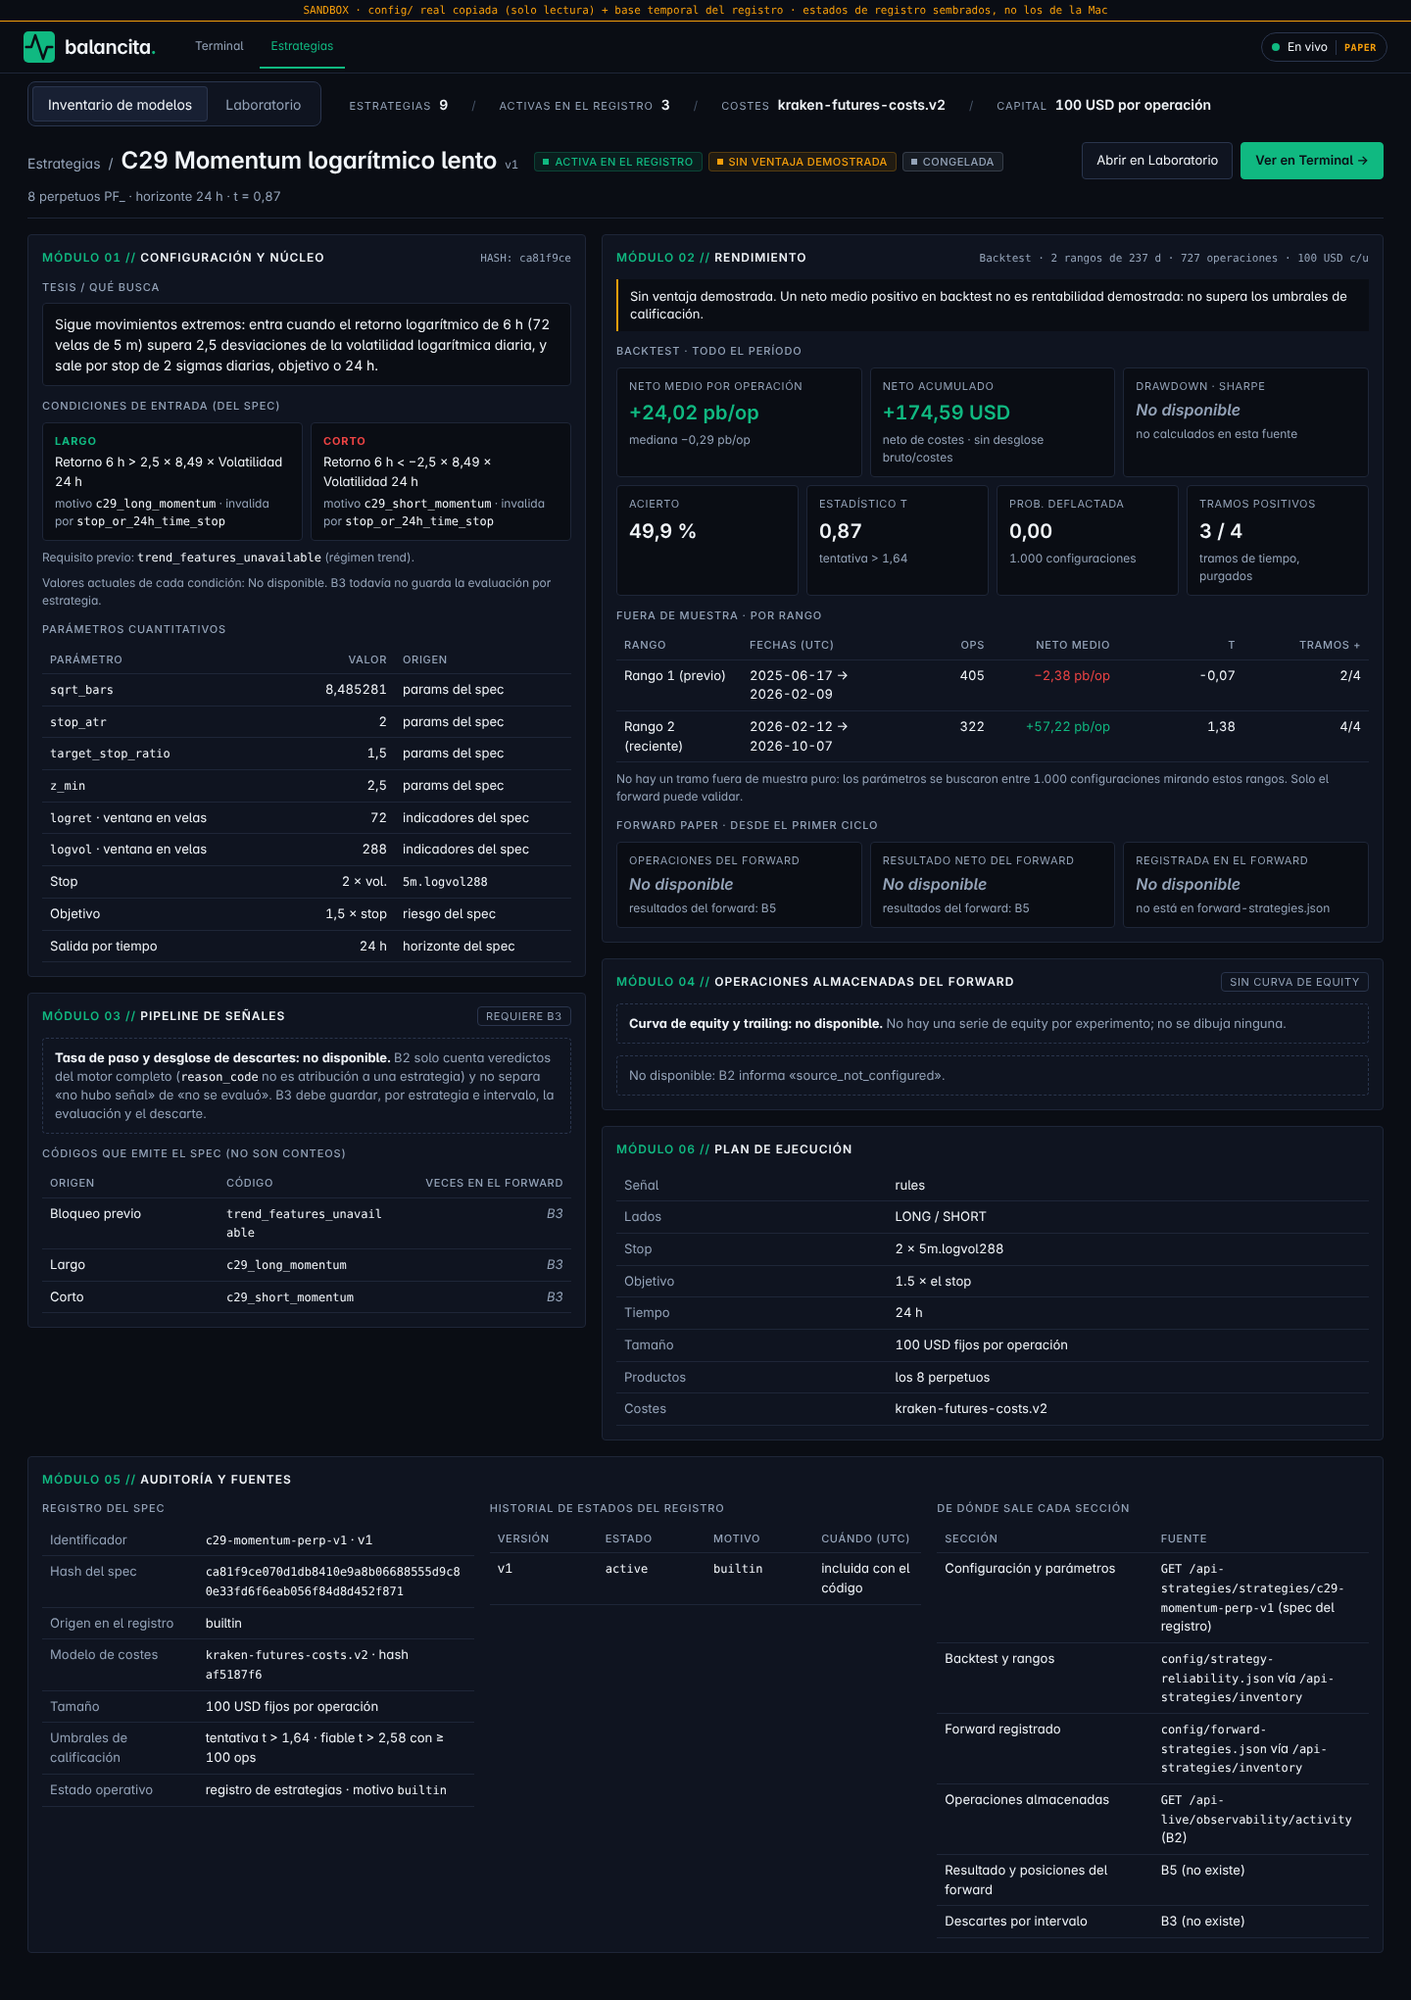
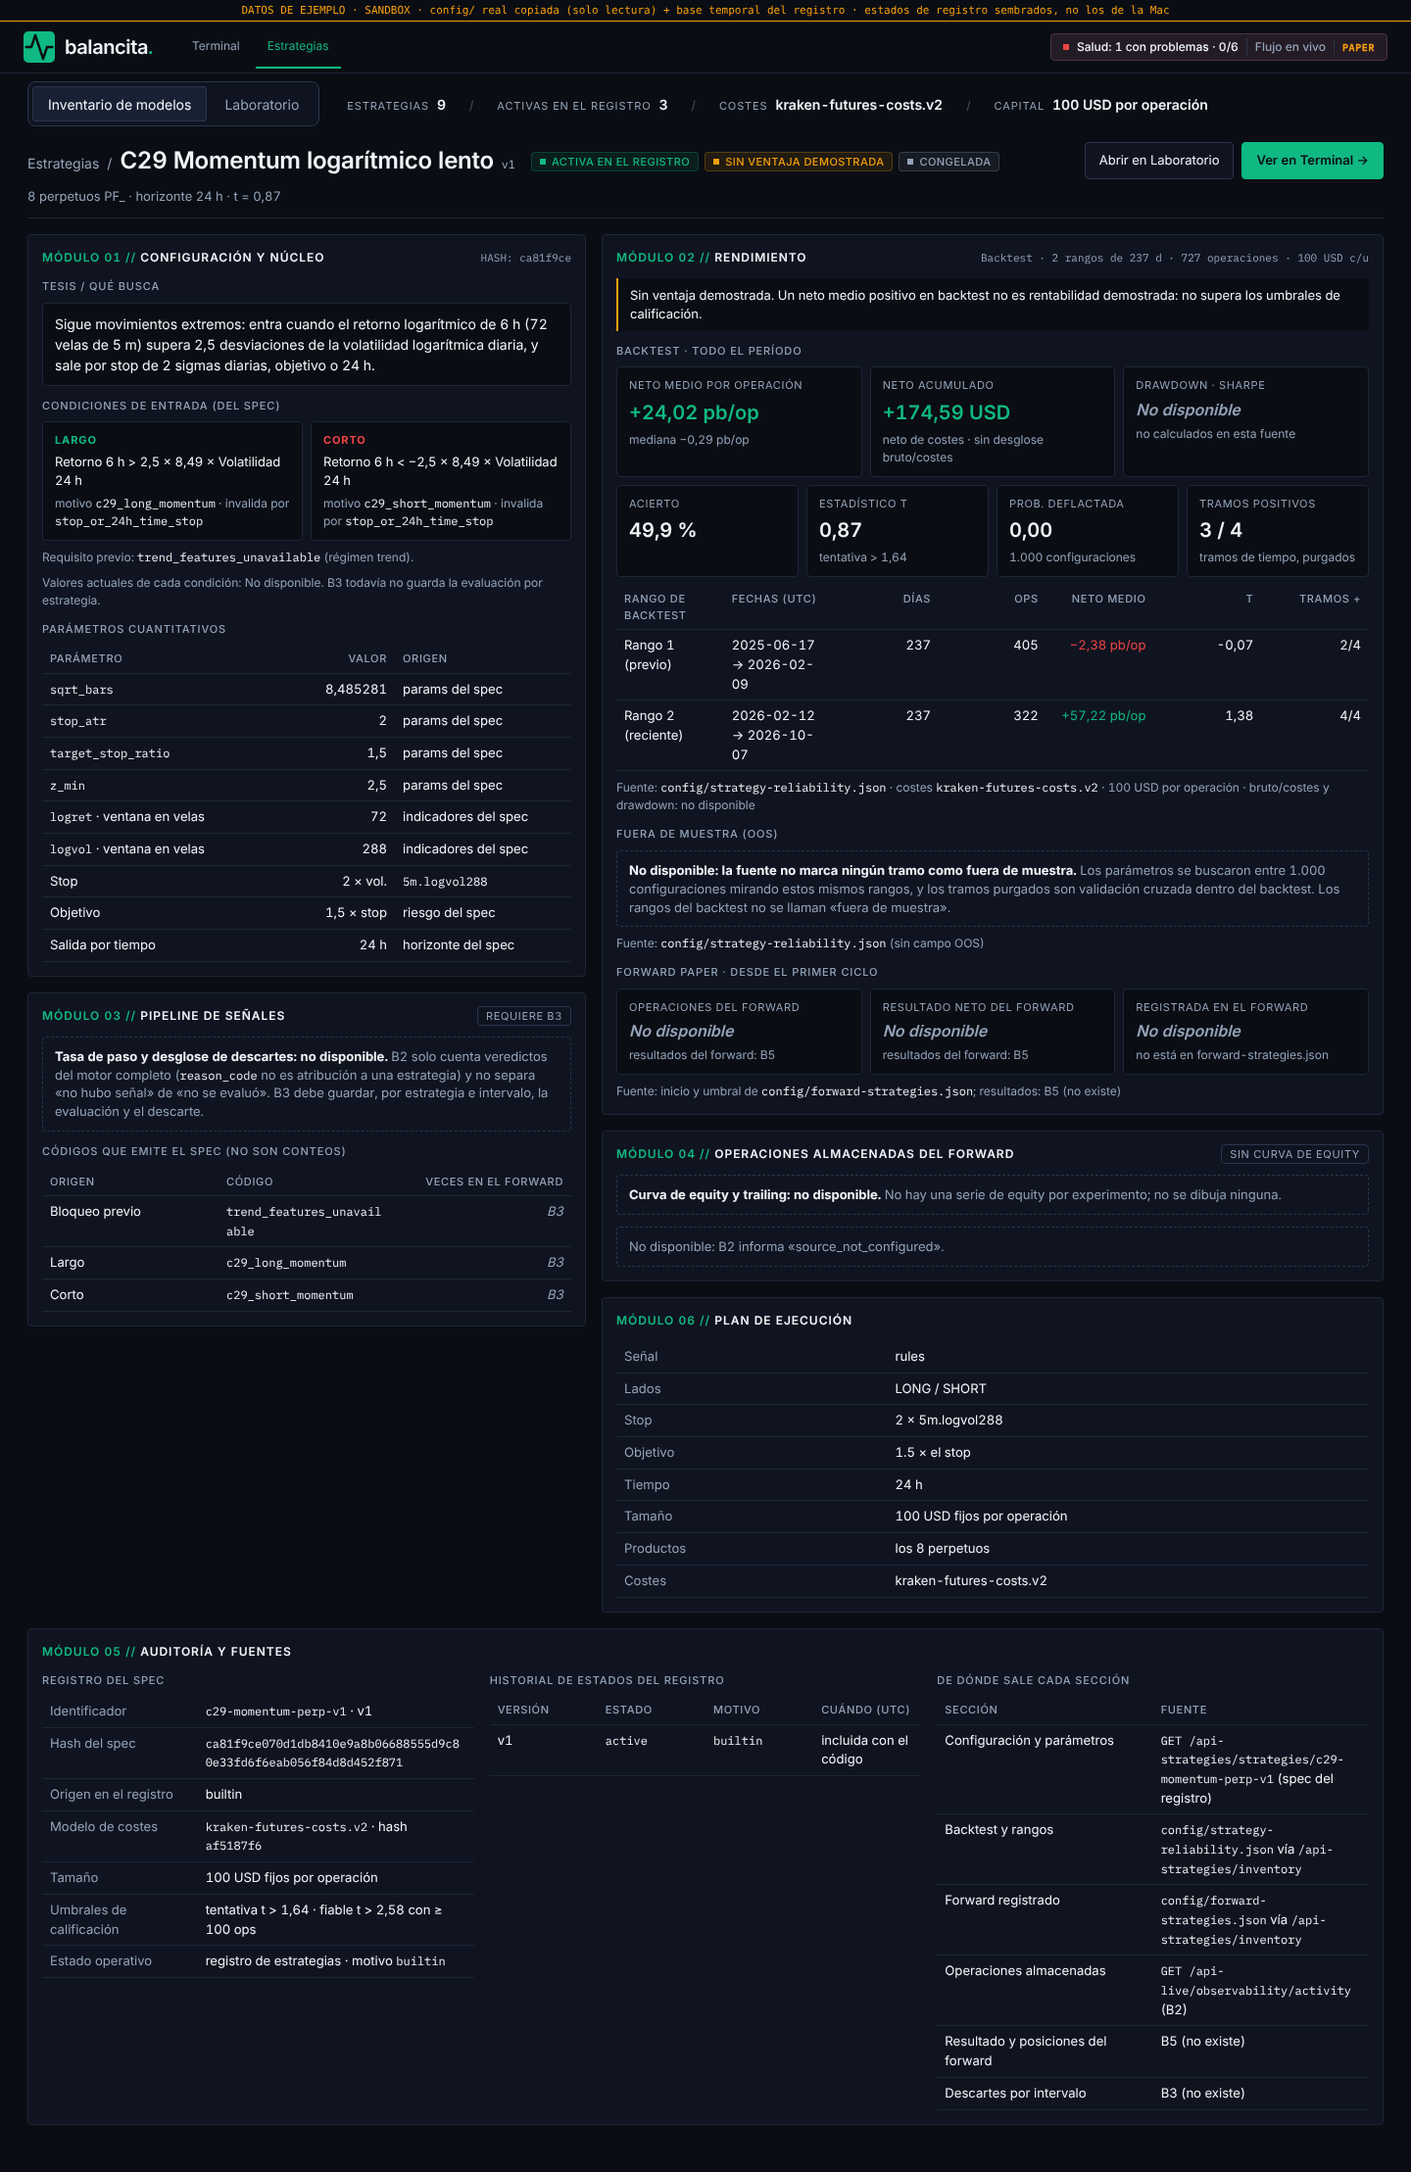
Detalle C29: backtest, fuera de muestra y forward separados con fuente, 237 días reales, pruebas de navegación y capturas

diff --git a/src/features/strategy-lab/presentation/StrategyDetailView.tsx b/src/features/strategy-lab/presentation/StrategyDetailView.tsx
@@ -128,6 +128,11 @@ function Sub({ title, children }: { title: string; children?: ReactNode }) {
   )
 }
 
+/** Where the figures of a section come from; sections never share a source. */
+function Source({ children }: { children: ReactNode }) {
+  return <p className="detail__source">Fuente: {children}</p>
+}
+
 function Unavailable({ children }: { children: ReactNode }) {
   return <p className="detail__unavailable">{children}</p>
 }
@@ -581,10 +586,15 @@ function PerformanceModule({
   const ranges = Object.entries(bt?.ranges ?? {})
   const periodRanges = inventory.period?.ranges ?? {}
   const periodNames = Object.keys(periodRanges)
-  const firstRange = Object.values(periodRanges)[0]
-  const days = firstRange
-    ? spanDays(firstRange.first_bucket_ms, firstRange.last_bucket_ms)
-    : null
+  const rangeDays = Object.values(periodRanges).map((span) =>
+    spanDays(span.first_bucket_ms, span.last_bucket_ms),
+  )
+  // Real length of the ranges, from the first/last bucket of the data (not
+  // the «240 days» of the source label).
+  const days =
+    rangeDays.length > 0 && rangeDays.every((d) => d === rangeDays[0])
+      ? rangeDays[0]
+      : null
   const t = inventory.thresholds
   const trials = bt?.selection_trials ?? null
   const fwd = row.forward
@@ -676,6 +686,63 @@ function PerformanceModule({
                 note="tramos de tiempo, purgados"
               />
             </dl>
+            {ranges.length > 0 && (
+              <table className="detail__table" data-testid="range-table">
+                <thead>
+                  <tr>
+                    <th>Rango de backtest</th>
+                    <th>Fechas (UTC)</th>
+                    <th className="is-num">Días</th>
+                    <th className="is-num">Ops</th>
+                    <th className="is-num">Neto medio</th>
+                    <th className="is-num">t</th>
+                    <th className="is-num">Tramos +</th>
+                  </tr>
+                </thead>
+                <tbody>
+                  {ranges.map(([name, range]) => {
+                    const span = periodRanges[name]
+                    return (
+                      <tr key={name}>
+                        <td>{rangeName(name)}</td>
+                        <td>
+                          {span
+                            ? `${utcDay(span.first_bucket_ms)} → ${utcDay(span.last_bucket_ms)}`
+                            : NA}
+                        </td>
+                        <td className="is-num">
+                          {span
+                            ? spanDays(
+                                span.first_bucket_ms,
+                                span.last_bucket_ms,
+                              )
+                            : NA}
+                        </td>
+                        <td className="is-num">{count(range.trades)}</td>
+                        <td
+                          className={`is-num is-${tone(range.mean_net_bp) ?? 'missing'}`}
+                        >
+                          {netBpPerOp(range.mean_net_bp) ?? NA}
+                        </td>
+                        <td className="is-num">
+                          {range.t_stat == null ? NA : amount(range.t_stat)}
+                        </td>
+                        <td className="is-num">
+                          {range.folds_positive ?? '—'}/
+                          {range.folds_judged ?? '—'}
+                        </td>
+                      </tr>
+                    )
+                  })}
+                </tbody>
+              </table>
+            )}
+            <Source>
+              <code>config/strategy-reliability.json</code> · costes{' '}
+              <code>{inventory.cost_model?.version ?? NA}</code> ·{' '}
+              {inventory.notional_usd} USD por operación · bruto/costes y
+              drawdown: {NA.toLowerCase()}
+            </Source>
           </>
         ) : (
           <Unavailable>
@@ -687,60 +754,19 @@ function PerformanceModule({
         )}
       </Sub>
 
-      <Sub title="Fuera de muestra · por rango">
-        {ranges.length > 0 ? (
-          <>
-            <table className="detail__table" data-testid="range-table">
-              <thead>
-                <tr>
-                  <th>Rango</th>
-                  <th>Fechas (UTC)</th>
-                  <th className="is-num">Ops</th>
-                  <th className="is-num">Neto medio</th>
-                  <th className="is-num">t</th>
-                  <th className="is-num">Tramos +</th>
-                </tr>
-              </thead>
-              <tbody>
-                {ranges.map(([name, range]) => {
-                  const span = periodRanges[name]
-                  return (
-                    <tr key={name}>
-                      <td>{rangeName(name)}</td>
-                      <td>
-                        {span
-                          ? `${utcDay(span.first_bucket_ms)} → ${utcDay(span.last_bucket_ms)}`
-                          : NA}
-                      </td>
-                      <td className="is-num">{count(range.trades)}</td>
-                      <td
-                        className={`is-num is-${tone(range.mean_net_bp) ?? 'missing'}`}
-                      >
-                        {netBpPerOp(range.mean_net_bp) ?? NA}
-                      </td>
-                      <td className="is-num">
-                        {range.t_stat == null ? NA : amount(range.t_stat)}
-                      </td>
-                      <td className="is-num">
-                        {range.folds_positive ?? '—'}/
-                        {range.folds_judged ?? '—'}
-                      </td>
-                    </tr>
-                  )
-                })}
-              </tbody>
-            </table>
-            <p className="detail__note" data-testid="oos-note">
-              {trials != null && trials > 1
-                ? `No hay un tramo fuera de muestra puro: los parámetros se buscaron entre ${count(trials)} configuraciones mirando estos rangos. Solo el forward puede validar.`
-                : 'Rangos medidos por separado. La fuente no marca cuál sirvió para elegir parámetros; no se llama «fuera de muestra» a ninguno.'}
-            </p>
-          </>
-        ) : (
-          <Unavailable>
-            {NA}: sin medición por rango para este spec.
-          </Unavailable>
-        )}
+      <Sub title="Fuera de muestra (OOS)">
+        <Unavailable>
+          <b data-testid="oos-note">
+            {NA}: la fuente no marca ningún tramo como fuera de muestra.
+          </b>{' '}
+          {trials != null && trials > 1
+            ? `Los parámetros se buscaron entre ${count(trials)} configuraciones mirando estos mismos rangos, y los tramos purgados son validación cruzada dentro del backtest. `
+            : 'Los tramos purgados son validación cruzada dentro del backtest, no una prueba aparte. '}
+          Los rangos del backtest no se llaman «fuera de muestra».
+        </Unavailable>
+        <Source>
+          <code>config/strategy-reliability.json</code> (sin campo OOS)
+        </Source>
       </Sub>
 
       <Sub title="Forward paper · desde el primer ciclo">
@@ -774,6 +800,10 @@ function PerformanceModule({
             }
           />
         </dl>
+        <Source>
+          inicio y umbral de <code>config/forward-strategies.json</code>;
+          resultados: {fwd.missing} (no existe)
+        </Source>
       </Sub>
     </Module>
   )

diff --git a/e2e/estrategias-inventario.pw.ts b/e2e/estrategias-inventario.pw.ts
@@ -296,15 +296,40 @@ test('navigation: Terminal <-> Estrategias <-> inventory <-> detail, no new tabs
     'Inventario de modelos',
     'Laboratorio',
   ])
-  // Detail of C29 -> laboratory -> back to the inventory.
+  // Inventory -> detail of C29 -> back through the breadcrumb.
   await page.getByRole('button', { name: /Detalle de C29/ }).click()
+  const detail = page.getByTestId('strategy-detail')
+  await expect(detail).toBeVisible()
+  await expect(detail.getByRole('heading', { name: /^C29/ })).toBeVisible()
+  await expect(
+    page.getByRole('tab', { name: 'Inventario de modelos' }),
+  ).toHaveAttribute('aria-selected', 'true')
+  await detail.getByRole('button', { name: 'Estrategias' }).click()
+  await expect(page.getByTestId('inventory-row')).toHaveCount(10)
+  // The detail is generic: other rules strategies open the same view, with
+  // their own figures and without C29's.
+  await page.getByRole('button', { name: /Detalle de C30/ }).click()
+  await expect(detail.getByRole('heading', { name: /^C30/ })).toBeVisible()
+  await expect(detail.getByTestId('module-performance')).toBeVisible()
+  await expect(detail.getByTestId('module-config')).not.toContainText(
+    'HASH: ca81f9ce',
+  )
+  await expect(detail.getByTestId('module-performance')).toContainText(
+    'Fuera de muestra (OOS)',
+  )
+  await detail.getByRole('button', { name: 'Estrategias' }).click()
+  // C32 has no backtest by design: «No disponible», not an empty table.
+  await page.getByRole('button', { name: /Detalle de C32/ }).click()
+  await expect(detail.getByRole('heading', { name: /^C32/ })).toBeVisible()
+  await expect(detail.getByTestId('module-performance')).toContainText(
+    'no tiene backtest por diseño',
+  )
+  // Detail -> laboratory (explicit action) -> back to the inventory tab.
+  await detail.getByRole('button', { name: 'Abrir en Laboratorio' }).click()
   await expect(page.getByRole('tab', { name: 'Laboratorio' })).toHaveAttribute(
     'aria-selected',
     'true',
   )
-  await expect(
-    page.getByRole('heading', { name: /^C29/ }).first(),
-  ).toBeVisible()
   await page.getByRole('tab', { name: 'Inventario de modelos' }).click()
   await expect(page.getByTestId('inventory-row')).toHaveCount(10)
   // Estrategias -> Terminal -> back: opens on the inventory again.
@@ -369,6 +394,14 @@ test('Detalle C29 shows the real registry figures, B2 operations and no invented
   await expect(performance.getByTestId('range-table')).toContainText(
     String(c29.by_range.previous!.trades),
   )
+  // The real ranges last 237 days (first/last bucket), not the 240 of a label.
+  await expect(performance).toContainText('2 rangos de 237 d')
+  await expect(performance.getByTestId('range-table')).not.toContainText('240')
+  // Backtest, out of sample and forward are separate and never mixed.
+  await expect(performance.getByTestId('oos-note')).toContainText(
+    'No disponible',
+  )
+  await expect(performance.getByText('Fuente:')).toHaveCount(3)
   await expect(performance.getByTestId('verdict')).toContainText(
     'no es rentabilidad demostrada',
   )

diff --git a/src/features/strategy-lab/presentation/StrategyDetailView.test.tsx b/src/features/strategy-lab/presentation/StrategyDetailView.test.tsx
@@ -147,11 +147,17 @@ describe('StrategyDetailView (datos de ejemplo)', () => {
     view(() => Promise.resolve(report([])))
     const perf = within(await screen.findByTestId('module-performance'))
     expect(perf.getByText('Backtest · todo el período')).toBeInTheDocument()
-    expect(perf.getByText('Fuera de muestra · por rango')).toBeInTheDocument()
+    expect(perf.getByText('Fuera de muestra (OOS)')).toBeInTheDocument()
     expect(
       perf.getByText('Forward paper · desde el primer ciclo'),
     ).toBeInTheDocument()
     expect(perf.getByText('+24,02 pb/op')).toBeInTheDocument()
+    // The ranges last 237 days by their real buckets, never the 240 of a label.
+    expect(perf.getByTestId('range-table')).toHaveTextContent('237')
+    expect(perf.getByTestId('range-table')).not.toHaveTextContent('240')
+    expect(screen.getByTestId('module-performance')).toHaveTextContent(
+      '2 rangos de 237 d',
+    )
     // Forward has no source: B5, never a number.
     expect(perf.getAllByText('No disponible').length).toBeGreaterThan(0)
     expect(perf.getAllByText(/resultados del forward: B5/).length).toBe(2)
@@ -160,7 +166,7 @@ describe('StrategyDetailView (datos de ejemplo)', () => {
     expect(verdict).toHaveTextContent('Sin ventaja demostrada')
     expect(verdict).toHaveTextContent('no es rentabilidad demostrada')
     expect(perf.getByTestId('oos-note')).toHaveTextContent(
-      'No hay un tramo fuera de muestra puro',
+      'No disponible: la fuente no marca ningún tramo como fuera de muestra',
     )
     expect(screen.getByTestId('sources-table')).toHaveTextContent(
       'config/strategy-reliability.json',

diff --git a/e2e/integracion-gateway.pw.ts b/e2e/integracion-gateway.pw.ts
@@ -220,10 +220,7 @@ test('Terminal on the real gateway: every interaction answers without 404', asyn
     .getByRole('button', { name: /Detalle de/ })
     .first()
     .click()
-  await expect(page.getByRole('tab', { name: 'Laboratorio' })).toHaveAttribute(
-    'aria-selected',
-    'true',
-  )
+  await expect(page.getByTestId('strategy-detail')).toBeVisible()
   await page.getByRole('link', { name: 'Terminal', exact: true }).click()
   await expect(page.getByTestId('activity-panel')).toBeVisible()
 

diff --git a/src/features/strategy-lab/testing/inventory-fixture.ts b/src/features/strategy-lab/testing/inventory-fixture.ts
@@ -82,8 +82,12 @@ export const exampleInventory: Inventory = {
   period: {
     ranges: {
       previous: {
-        first_bucket_ms: 0,
-        last_bucket_ms: 240 * 86_400_000 - 60_000,
+        first_bucket_ms: 1_750_182_780_000,
+        last_bucket_ms: 1_770_659_520_000,
+      },
+      recent: {
+        first_bucket_ms: 1_770_916_800_000,
+        last_bucket_ms: 1_791_393_540_000,
       },
     },
   },

diff --git a/src/features/strategy-lab/presentation/StrategyDetailView.css b/src/features/strategy-lab/presentation/StrategyDetailView.css
@@ -208,9 +208,14 @@
 
 .detail__sides small,
 .detail__note,
+.detail__source,
 .detail__kpi small {
   color: var(--mc-text-2);
   font-size: 12px;
+}
+
+.detail__source {
+  margin: 6px 0 0;
 }
 
 .detail__scope {

diff --git a/docs/mission-control/p2-detalle-c29/LEEME.md b/docs/mission-control/p2-detalle-c29/LEEME.md
@@ -1,0 +1,31 @@
+# Estrategias: detalle de estrategia (C29 como primer caso)
+
+Capturas de la app React a 1440x900 (Playwright `desktop-1440x900`), generadas por
+`e2e/estrategias-inventario.pw.ts` contra el registro S real (proceso Python) con una
+base temporal y una copia de solo lectura de `config/`. Llevan el rótulo
+«DATOS DE EJEMPLO · SANDBOX»: los estados de registro están sembrados, no son los de la Mac.
+Ninguna base real, proceso de captura, estrategia ni WebSocket se tocó.
+Tipografía Inter / IBM Plex Mono cargada localmente (se permitió el directorio de
+`node_modules` solo para la captura; no se cambió la configuración de Vite).
+
+- `detalle-c29.png`: detalle de C29 a 1440x900.
+- `detalle-c29-completo.png`: página completa.
+- `comparacion-stitch-vs-react.png`: Stitch v5 (izquierda) y React (derecha).
+- `solicitudes.json`: solicitudes `/api-*` de la captura (ninguna 4xx/5xx).
+
+## Qué sale de qué fuente (C29)
+
+- Backtest: `config/strategy-reliability.json` (727 ops, +24,02 pb/op, +174,59 USD, t 0,87, veredicto `no_edge`).
+- Rangos: 2 de 237 días reales (primer/último bucket de los datos), no los 240 de la maqueta ni de la etiqueta de la fuente.
+- Fuera de muestra (OOS): No disponible. La fuente no marca ningún tramo OOS; los parámetros se buscaron entre 1.000 configuraciones sobre estos mismos rangos.
+- Forward: inicio y umbral de `config/forward-strategies.json`; resultados No disponible (B5).
+- Configuración, parámetros, plan: registro de estrategias (S). Operaciones almacenadas: B2.
+- El detalle es genérico para toda estrategia de reglas (C30, C32 verificadas en e2e).
+
+## Diferencias con Stitch que quedan
+
+- Stitch muestra PnL bruto, costes de fricción, Profit Factor, Max Drawdown, Sharpe, curva de equity, tasa de paso y descartes con números: no existen fuentes (B3/B5); aquí figuran «No disponible» y no se dibuja gráfico.
+- Brazos A/B/C y consistencia OOS «Retención 80,4 %» de Stitch: sin fuente, no se muestran.
+- Stitch dice «Evidencia: Robusta (118 ops)» y «Activa en paper»; la app dice «Sin ventaja demostrada» y «Activa en el registro».
+- Condiciones L2 / Order Book y EMA 21: C29 es momentum de retorno logarítmico; se muestran las condiciones reales del spec.
+- Cabecera de Stitch (PF_XBTUSD · 5m, SYNC: KRAKEN-L2): la estrategia opera 8 perpetuos; no hay ese chip.
